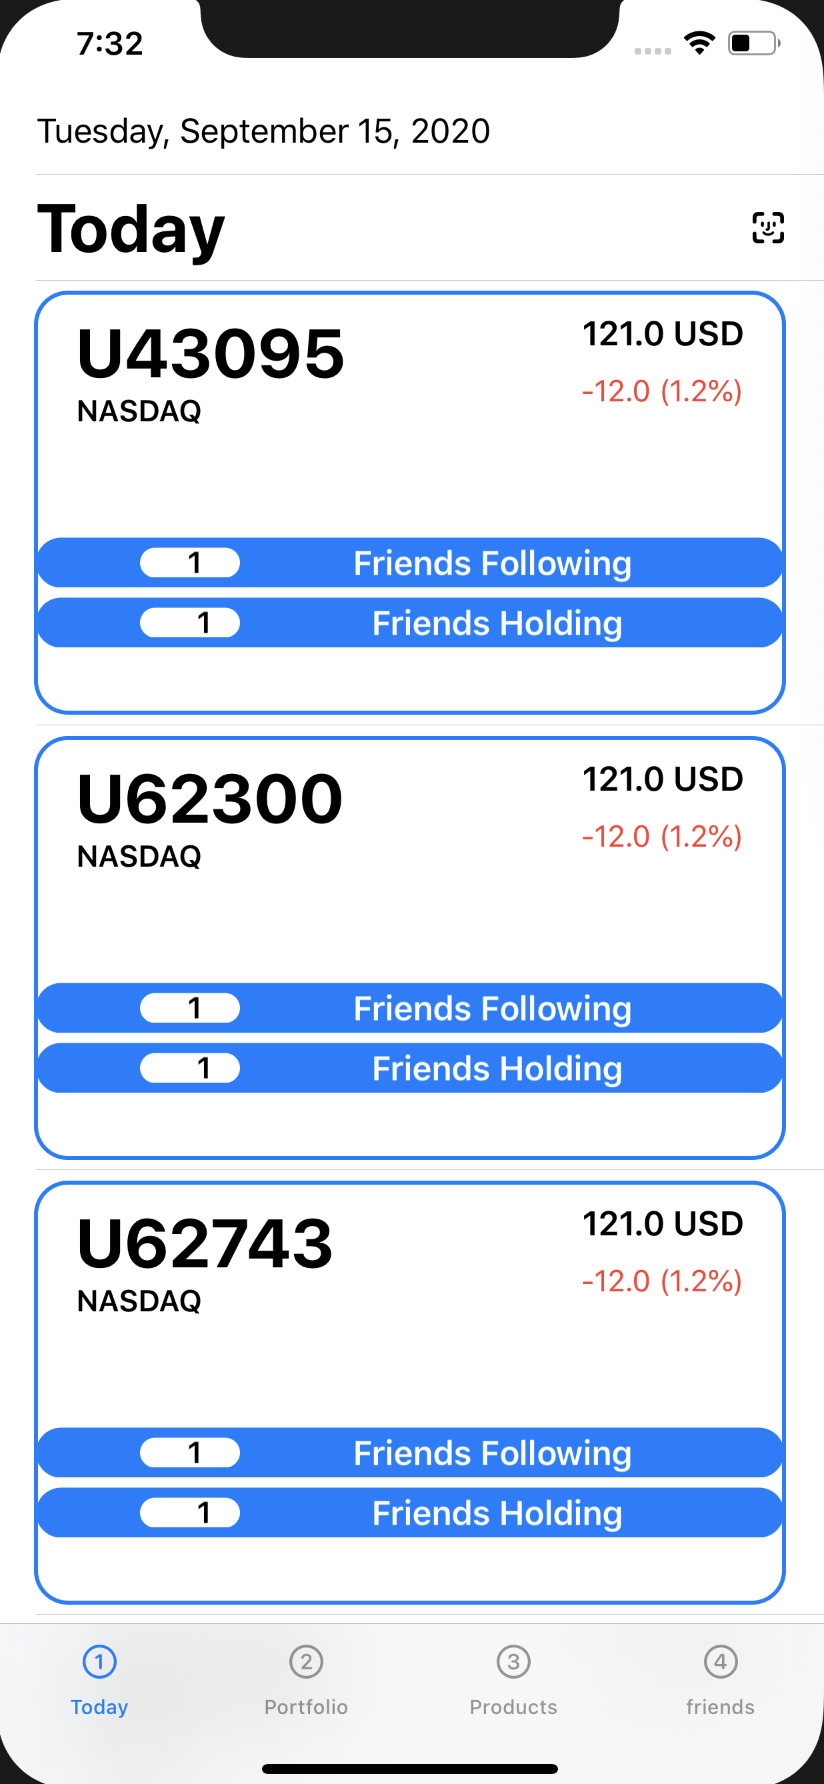
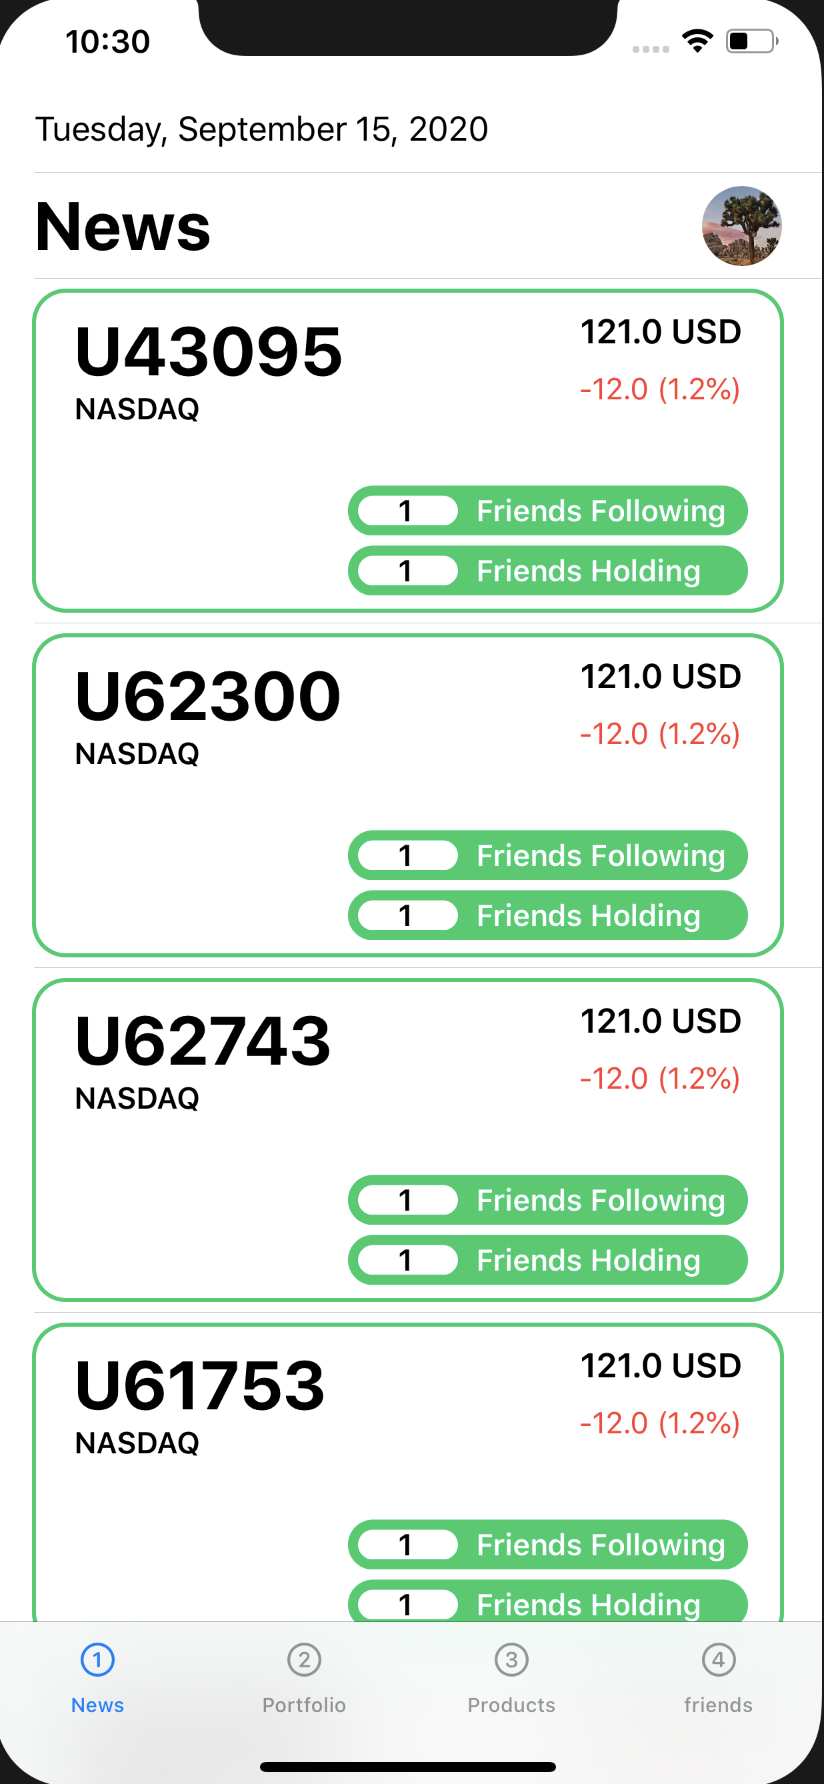
update

diff --git a/financial product recommendation system ui/View/WOWchCardView.swift b/financial product recommendation system ui/View/WOWchCardView.swift
@@ -38,7 +38,7 @@ struct CardBorderView: View {
     
     var body: some View {
          return Rectangle().fill(Color.white)
-            .frame(height: 200).animation(.default).padding(5)
+            .frame(height: 150).animation(.default).padding(5)
            .overlay(
                RoundedRectangle(cornerRadius: 16)
                 .stroke(Color(red: 0/255, green: 204/255, blue: 102/255), lineWidth: 2)
